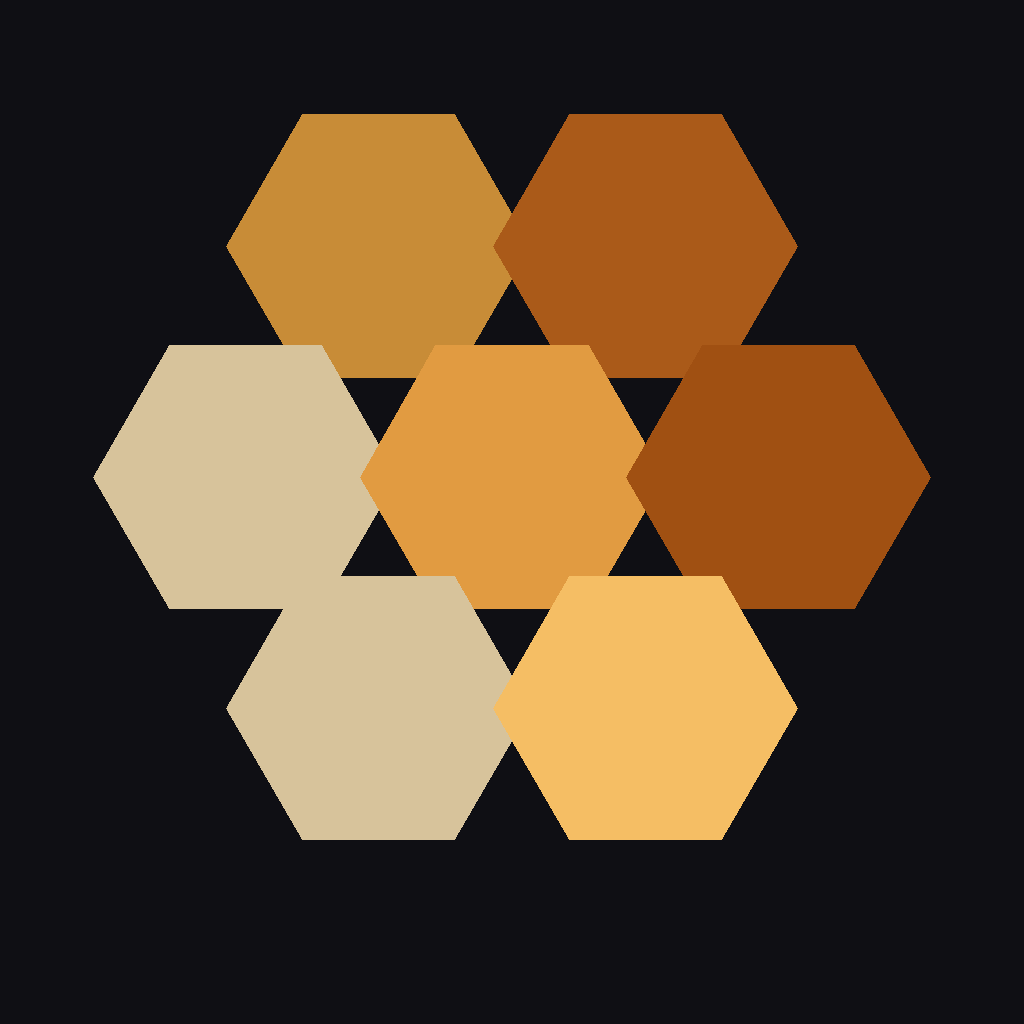
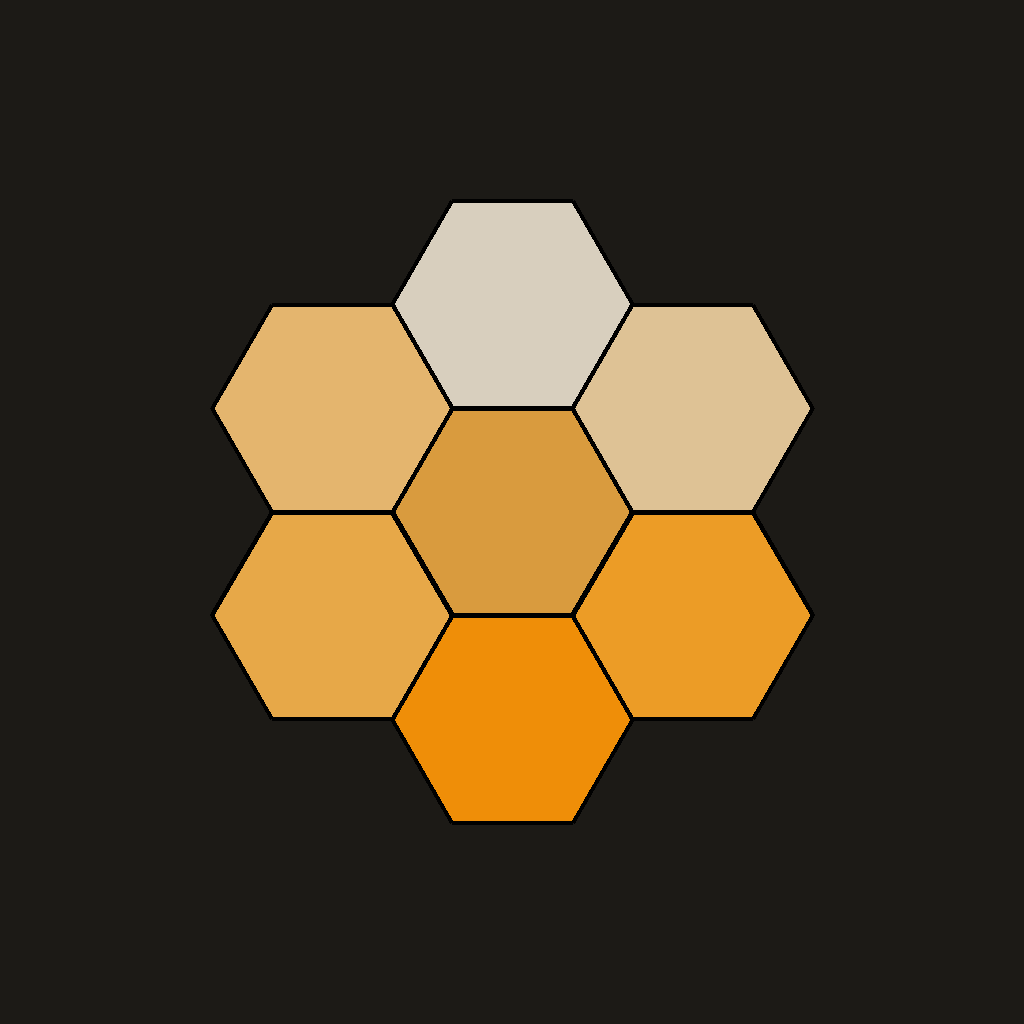
feat: icona colorata, scale 1/12+1/24, categorie auto/moto, validazione, galleria foto
- Icona app: PNG con 7 esagoni nei colori del PatinaMark (sfondo #1C1A16)
- Scale: aggiunti 1/12 e 1/24 ai chip suggeriti
- Categorie: aggiunte Auto e Moto (con icone dedicate)
- Validazione nuovo progetto: marca e scala ora obbligatorie;
  formato scala validato (regex 1/\d+) con messaggio di errore
- Galleria foto: bottone + apre picker (fotocamera/galleria),
  salva in ProjectPhotos, mostra thumbnail; long-press per eliminare

Claude-Session: https://claude.ai/code/session_014uh8vSwDp4tbkLmncY5TJD

diff --git a/app/lib/features/projects/project_detail/project_detail_screen.dart b/app/lib/features/projects/project_detail/project_detail_screen.dart
@@ -307,19 +307,7 @@ class _ProjectDetailContentState
 
           // ── Galleria Foto ──
           _SectionHeader(title: 'Galleria'),
-          SliverToBoxAdapter(
-            child: SizedBox(
-              height: 88,
-              child: ListView(
-                scrollDirection: Axis.horizontal,
-                padding: const EdgeInsets.symmetric(horizontal: 16),
-                children: [
-                  // Bottone aggiungi
-                  _PhotoAddButton(onTap: () {}),
-                ],
-              ),
-            ),
-          ),
+          _GallerySliver(projectId: widget.project.id),
 
           // ── Note Progetto ──
           _SectionHeader(title: 'Note'),
@@ -499,6 +487,119 @@ class _SectionHeader extends StatelessWidget {
             Expanded(
                 child: Divider(color: scheme.outline, thickness: 1)),
           ],
+        ),
+      ),
+    );
+  }
+}
+
+final _projectPhotosProvider =
+    StreamProvider.autoDispose.family<List<ProjectPhoto>, int>(
+  (ref, projectId) =>
+      ref.watch(projectRepositoryProvider).watchProjectPhotos(projectId),
+);
+
+class _GallerySliver extends ConsumerWidget {
+  final int projectId;
+  const _GallerySliver({required this.projectId});
+
+  Future<void> _addPhoto(BuildContext context, WidgetRef ref) async {
+    final source = await showModalBottomSheet<ImageSource>(
+      context: context,
+      builder: (ctx) => SafeArea(
+        child: Column(
+          mainAxisSize: MainAxisSize.min,
+          children: [
+            ListTile(
+              leading: const Icon(Icons.camera_alt_outlined),
+              title: const Text('Fotocamera'),
+              onTap: () => Navigator.pop(ctx, ImageSource.camera),
+            ),
+            ListTile(
+              leading: const Icon(Icons.photo_library_outlined),
+              title: const Text('Galleria'),
+              onTap: () => Navigator.pop(ctx, ImageSource.gallery),
+            ),
+            ListTile(
+              leading: const Icon(Icons.close),
+              title: const Text('Annulla'),
+              onTap: () => Navigator.pop(ctx),
+            ),
+          ],
+        ),
+      ),
+    );
+    if (source == null) return;
+    try {
+      final file = await ImagePicker().pickImage(source: source, imageQuality: 85);
+      if (file != null) {
+        await ref.read(projectRepositoryProvider).addProjectPhoto(projectId, file.path);
+      }
+    } catch (_) {}
+  }
+
+  Future<void> _deletePhoto(BuildContext context, WidgetRef ref, int photoId) async {
+    final confirm = await showDialog<bool>(
+      context: context,
+      builder: (ctx) => AlertDialog(
+        title: const Text('Eliminare la foto?'),
+        actions: [
+          TextButton(onPressed: () => Navigator.pop(ctx, false), child: const Text('Annulla')),
+          TextButton(
+            onPressed: () => Navigator.pop(ctx, true),
+            child: const Text('Elimina', style: TextStyle(color: Colors.red)),
+          ),
+        ],
+      ),
+    );
+    if (confirm == true) {
+      await ref.read(projectRepositoryProvider).deleteProjectPhoto(photoId);
+    }
+  }
+
+  @override
+  Widget build(BuildContext context, WidgetRef ref) {
+    final photosAsync = ref.watch(_projectPhotosProvider(projectId));
+    final photos = photosAsync.valueOrNull ?? [];
+
+    return SliverToBoxAdapter(
+      child: SizedBox(
+        height: 88,
+        child: ListView(
+          scrollDirection: Axis.horizontal,
+          padding: const EdgeInsets.symmetric(horizontal: 16),
+          children: [
+            _PhotoAddButton(onTap: () => _addPhoto(context, ref)),
+            ...photos.map((photo) => _PhotoThumbnail(
+              photo: photo,
+              onLongPress: () => _deletePhoto(context, ref, photo.id),
+            )),
+          ],
+        ),
+      ),
+    );
+  }
+}
+
+class _PhotoThumbnail extends StatelessWidget {
+  final ProjectPhoto photo;
+  final VoidCallback onLongPress;
+  const _PhotoThumbnail({required this.photo, required this.onLongPress});
+
+  @override
+  Widget build(BuildContext context) {
+    return GestureDetector(
+      onLongPress: onLongPress,
+      child: Container(
+        width: 80,
+        height: 80,
+        margin: const EdgeInsets.only(right: 8),
+        decoration: BoxDecoration(
+          borderRadius: BorderRadius.circular(10),
+          image: DecorationImage(
+            image: FileImage(File(photo.path)),
+            fit: BoxFit.cover,
+          ),
         ),
       ),
     );

diff --git a/app/lib/features/projects/create_project/steps/step1_kit.dart b/app/lib/features/projects/create_project/steps/step1_kit.dart
@@ -16,16 +16,22 @@ class _Step1KitState extends ConsumerState<Step1Kit> {
   late final TextEditingController _brandCtrl;
   late final TextEditingController _scaleCtrl;
   bool _nameTouched = false;
+  bool _brandTouched = false;
+  bool _scaleTouched = false;
 
-  static const _scaleChips = ['1/35', '1/48', '1/72', '1/100', '1/144'];
+  static const _scaleChips = ['1/12', '1/24', '1/35', '1/48', '1/72', '1/100', '1/144'];
   static const _categoryIcons = {
     'tank': Icons.military_tech_outlined,
     'aircraft': Icons.flight_outlined,
     'figure': Icons.person_outline,
     'ship': Icons.directions_boat_outlined,
+    'car': Icons.directions_car_outlined,
+    'motorcycle': Icons.two_wheeler_outlined,
     'diorama': Icons.landscape_outlined,
     'other': Icons.category_outlined,
   };
+
+  static final _scaleRegex = RegExp(r'^1\/\d+$');
 
   @override
   void initState() {
@@ -52,6 +58,13 @@ class _Step1KitState extends ConsumerState<Step1Kit> {
     final tt = Theme.of(context).textTheme;
 
     final nameError = _nameTouched && state.name.trim().isEmpty;
+    final brandError = _brandTouched && (state.brand == null || state.brand!.trim().isEmpty);
+    final scaleValue = state.scale ?? '';
+    final scaleError = _scaleTouched && scaleValue.trim().isEmpty
+        ? 'La scala è obbligatoria'
+        : _scaleTouched && scaleValue.trim().isNotEmpty && !_scaleRegex.hasMatch(scaleValue.trim())
+            ? 'Formato non valido (es. 1/35)'
+            : null;
 
     return ListView(
       padding: const EdgeInsets.fromLTRB(24, 8, 24, 32),
@@ -82,22 +95,30 @@ class _Step1KitState extends ConsumerState<Step1Kit> {
         TextField(
           controller: _brandCtrl,
           textCapitalization: TextCapitalization.words,
-          decoration: const InputDecoration(
-            labelText: 'Marca kit',
+          decoration: InputDecoration(
+            labelText: 'Marca kit *',
             hintText: 'es. Tamiya, Revell, Hasegawa',
+            errorText: brandError ? 'La marca è obbligatoria' : null,
           ),
-          onChanged: notifier.setBrand,
+          onChanged: (v) {
+            setState(() => _brandTouched = true);
+            notifier.setBrand(v);
+          },
         ),
         const SizedBox(height: 16),
 
         // Scala
         TextField(
           controller: _scaleCtrl,
-          decoration: const InputDecoration(
-            labelText: 'Scala',
+          decoration: InputDecoration(
+            labelText: 'Scala *',
             hintText: 'es. 1/35',
+            errorText: scaleError,
           ),
-          onChanged: notifier.setScale,
+          onChanged: (v) {
+            setState(() => _scaleTouched = true);
+            notifier.setScale(v);
+          },
         ),
         const SizedBox(height: 8),
         SingleChildScrollView(
@@ -147,12 +168,14 @@ class _Step1KitState extends ConsumerState<Step1Kit> {
         const SizedBox(height: 32),
 
         FilledButton(
-          onPressed: state.step1Valid
-              ? () {
-                  setState(() => _nameTouched = true);
-                  if (state.step1Valid) widget.onNext();
-                }
-              : () => setState(() => _nameTouched = true),
+          onPressed: () {
+            setState(() {
+              _nameTouched = true;
+              _brandTouched = true;
+              _scaleTouched = true;
+            });
+            if (state.step1Valid) widget.onNext();
+          },
           child: const Text('Avanti'),
         ),
       ],

diff --git a/app/lib/features/projects/project_repository.dart b/app/lib/features/projects/project_repository.dart
@@ -22,6 +22,22 @@ class ProjectRepository {
 
   Future<void> deleteProject(int id) =>
       (_db.delete(_db.projects)..where((t) => t.id.equals(id))).go();
+
+  Stream<List<ProjectPhoto>> watchProjectPhotos(int projectId) =>
+      (_db.select(_db.projectPhotos)
+            ..where((t) => t.projectId.equals(projectId))
+            ..orderBy([(t) => OrderingTerm.asc(t.id)]))
+          .watch();
+
+  Future<void> addProjectPhoto(int projectId, String path) =>
+      _db.into(_db.projectPhotos).insert(ProjectPhotosCompanion(
+            projectId: Value(projectId),
+            path: Value(path),
+            takenAt: Value(DateTime.now().millisecondsSinceEpoch),
+          ));
+
+  Future<void> deleteProjectPhoto(int photoId) =>
+      (_db.delete(_db.projectPhotos)..where((t) => t.id.equals(photoId))).go();
 }
 
 final projectRepositoryProvider = Provider<ProjectRepository>((ref) {

diff --git a/app/lib/features/projects/create_project/wizard_state.dart b/app/lib/features/projects/create_project/wizard_state.dart
@@ -26,7 +26,14 @@ class CreateProjectState {
     this.isSaving = false,
   });
 
-  bool get step1Valid => name.trim().isNotEmpty && category != null;
+  static final _scaleRegex = RegExp(r'^1\/\d+$');
+
+  bool get step1Valid =>
+      name.trim().isNotEmpty &&
+      category != null &&
+      brand != null && brand!.trim().isNotEmpty &&
+      scale != null && _scaleRegex.hasMatch(scale!.trim());
+
   bool get hasData => name.isNotEmpty || category != null || brand != null;
 
   CreateProjectState copyWith({

diff --git a/app/lib/shared/constants/app_constants.dart b/app/lib/shared/constants/app_constants.dart
@@ -1,6 +1,6 @@
 class AppConstants {
   static const List<String> projectCategories = [
-    'tank', 'aircraft', 'figure', 'ship', 'diorama', 'other',
+    'tank', 'aircraft', 'figure', 'ship', 'car', 'motorcycle', 'diorama', 'other',
   ];
 
   static const List<String> projectStatuses = [
@@ -18,6 +18,8 @@ class AppConstants {
     'aircraft': 'Aereo',
     'figure': 'Figura',
     'ship': 'Nave',
+    'car': 'Auto',
+    'motorcycle': 'Moto',
     'diorama': 'Diorama',
     'other': 'Altro',
   };
